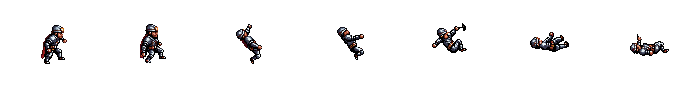
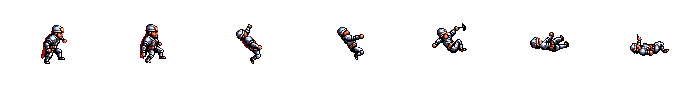
Mineiro: animacoes refeitas no modo v3 e armadura mais clara
Parado, andando e arremessando refeitos a partir do proprio desenho (o
boneco nao muda mais de um quadro pro outro, a picareta e sempre a mesma);
o aco e a capa clareados pra aparecer no escuro. Ferramentas/Personagens/
mineiro.py monta as folhas (pe na linha 64, 40 px por unidade). O tiro sai
no quadro 6 do arremesso.

Claude-Session: https://claude.ai/code/session_01TtQZrh7QHjg7ZznbLxTsw5

diff --git a/Ferramentas/Personagens/mineiro.py b/Ferramentas/Personagens/mineiro.py
@@ -1,0 +1,61 @@
+"""
+Monta as folhas do Mineiro (o heroi principal, feito no PixelLab) no formato dos herois do jogo:
+quadros de 100 x 100, o pe na linha 64, 40 px por unidade (Herois.Pixels).
+
+    python3 Ferramentas/Personagens/mineiro.py <pasta com idle/ walk/ attack/ hurt/ death/>
+
+Cada subpasta tem os quadros 0.png, 1.png... (48 ou 64 px, de lado, olhando pra direita). Antes de montar, a
+armadura e clareada (o aco escuro sumia no escuro do jogo) e a capa fica um pouco mais viva.
+"""
+import colorsys
+import glob
+import os
+import sys
+
+from PIL import Image
+
+SAIDA = os.path.join("Assets", "Arte", "Resources", "Personagens", "Herois", "Mineiro")
+FOLHAS = {"idle": "Idle", "walk": "Walk", "attack": "Attack01", "hurt": "Hurt", "death": "Death"}
+
+
+def clarear(im):
+    px = im.load()
+    w, h = im.size
+    for y in range(h):
+        for x in range(w):
+            r, g, b, a = px[x, y]
+            if a == 0:
+                continue
+            hh, s, v = colorsys.rgb_to_hsv(r / 255, g / 255, b / 255)
+            if v < 0.12:          # o contorno preto fica
+                continue
+            if s < 0.28:          # aco, capacete: mais claro e um pouco frio
+                v = min(1.0, v * 1.45 + 0.06)
+            elif 0.9 < hh or hh < 0.05:  # capa vermelha: mais viva
+                s = min(1.0, s * 1.1)
+                v = min(1.0, v * 1.25 + 0.03)
+            else:                 # pele, couro, cabo: um pouco mais claro
+                v = min(1.0, v * 1.2 + 0.03)
+            r2, g2, b2 = colorsys.hsv_to_rgb(hh, s, v)
+            px[x, y] = (int(r2 * 255), int(g2 * 255), int(b2 * 255), a)
+    return im
+
+
+def main(pasta):
+    os.makedirs(SAIDA, exist_ok=True)
+    for sub, nome in FOLHAS.items():
+        quadros = sorted(glob.glob(os.path.join(pasta, sub, "*.png")), key=lambda p: int(os.path.basename(p)[:-4]))
+        if not quadros:
+            continue
+        ims = [clarear(Image.open(q).convert("RGBA")) for q in quadros]
+        # O pe (a linha mais baixa do primeiro quadro) vai na linha 64 do quadro de 100; o boneco no meio.
+        pe = ims[0].getbbox()[3]
+        folha = Image.new("RGBA", (100 * len(ims), 100))
+        for k, im in enumerate(ims):
+            folha.alpha_composite(im, (k * 100 + (100 - im.width) // 2, 64 - pe))
+        folha.save(os.path.join(SAIDA, nome + ".png"))
+        print(nome, len(quadros), "quadros")
+
+
+if __name__ == "__main__":
+    main(sys.argv[1])

diff --git a/Assets/Scripts/Jogador/Herois.cs b/Assets/Scripts/Jogador/Herois.cs
@@ -79,7 +79,7 @@ public static class Herois
         {
             Nome = "Mineiro", Pasta = "Personagens/Herois/Mineiro", Pixels = 40f,
             Descricao = "Um cavaleiro que perdeu tudo e virou mineiro. Arremessa picaretas que giram.",
-            Vida = 8, Velocidade = 5.2f, Arma = "PicaretaDoMineiro", QuadroDoDisparo = 3,
+            Vida = 8, Velocidade = 5.2f, Arma = "PicaretaDoMineiro", QuadroDoDisparo = 6,
             Habilidade = TipoDeHabilidade.Furia, NomeDaHabilidade = "Fúria", Recarga = 16f,
         },
         new Heroi
